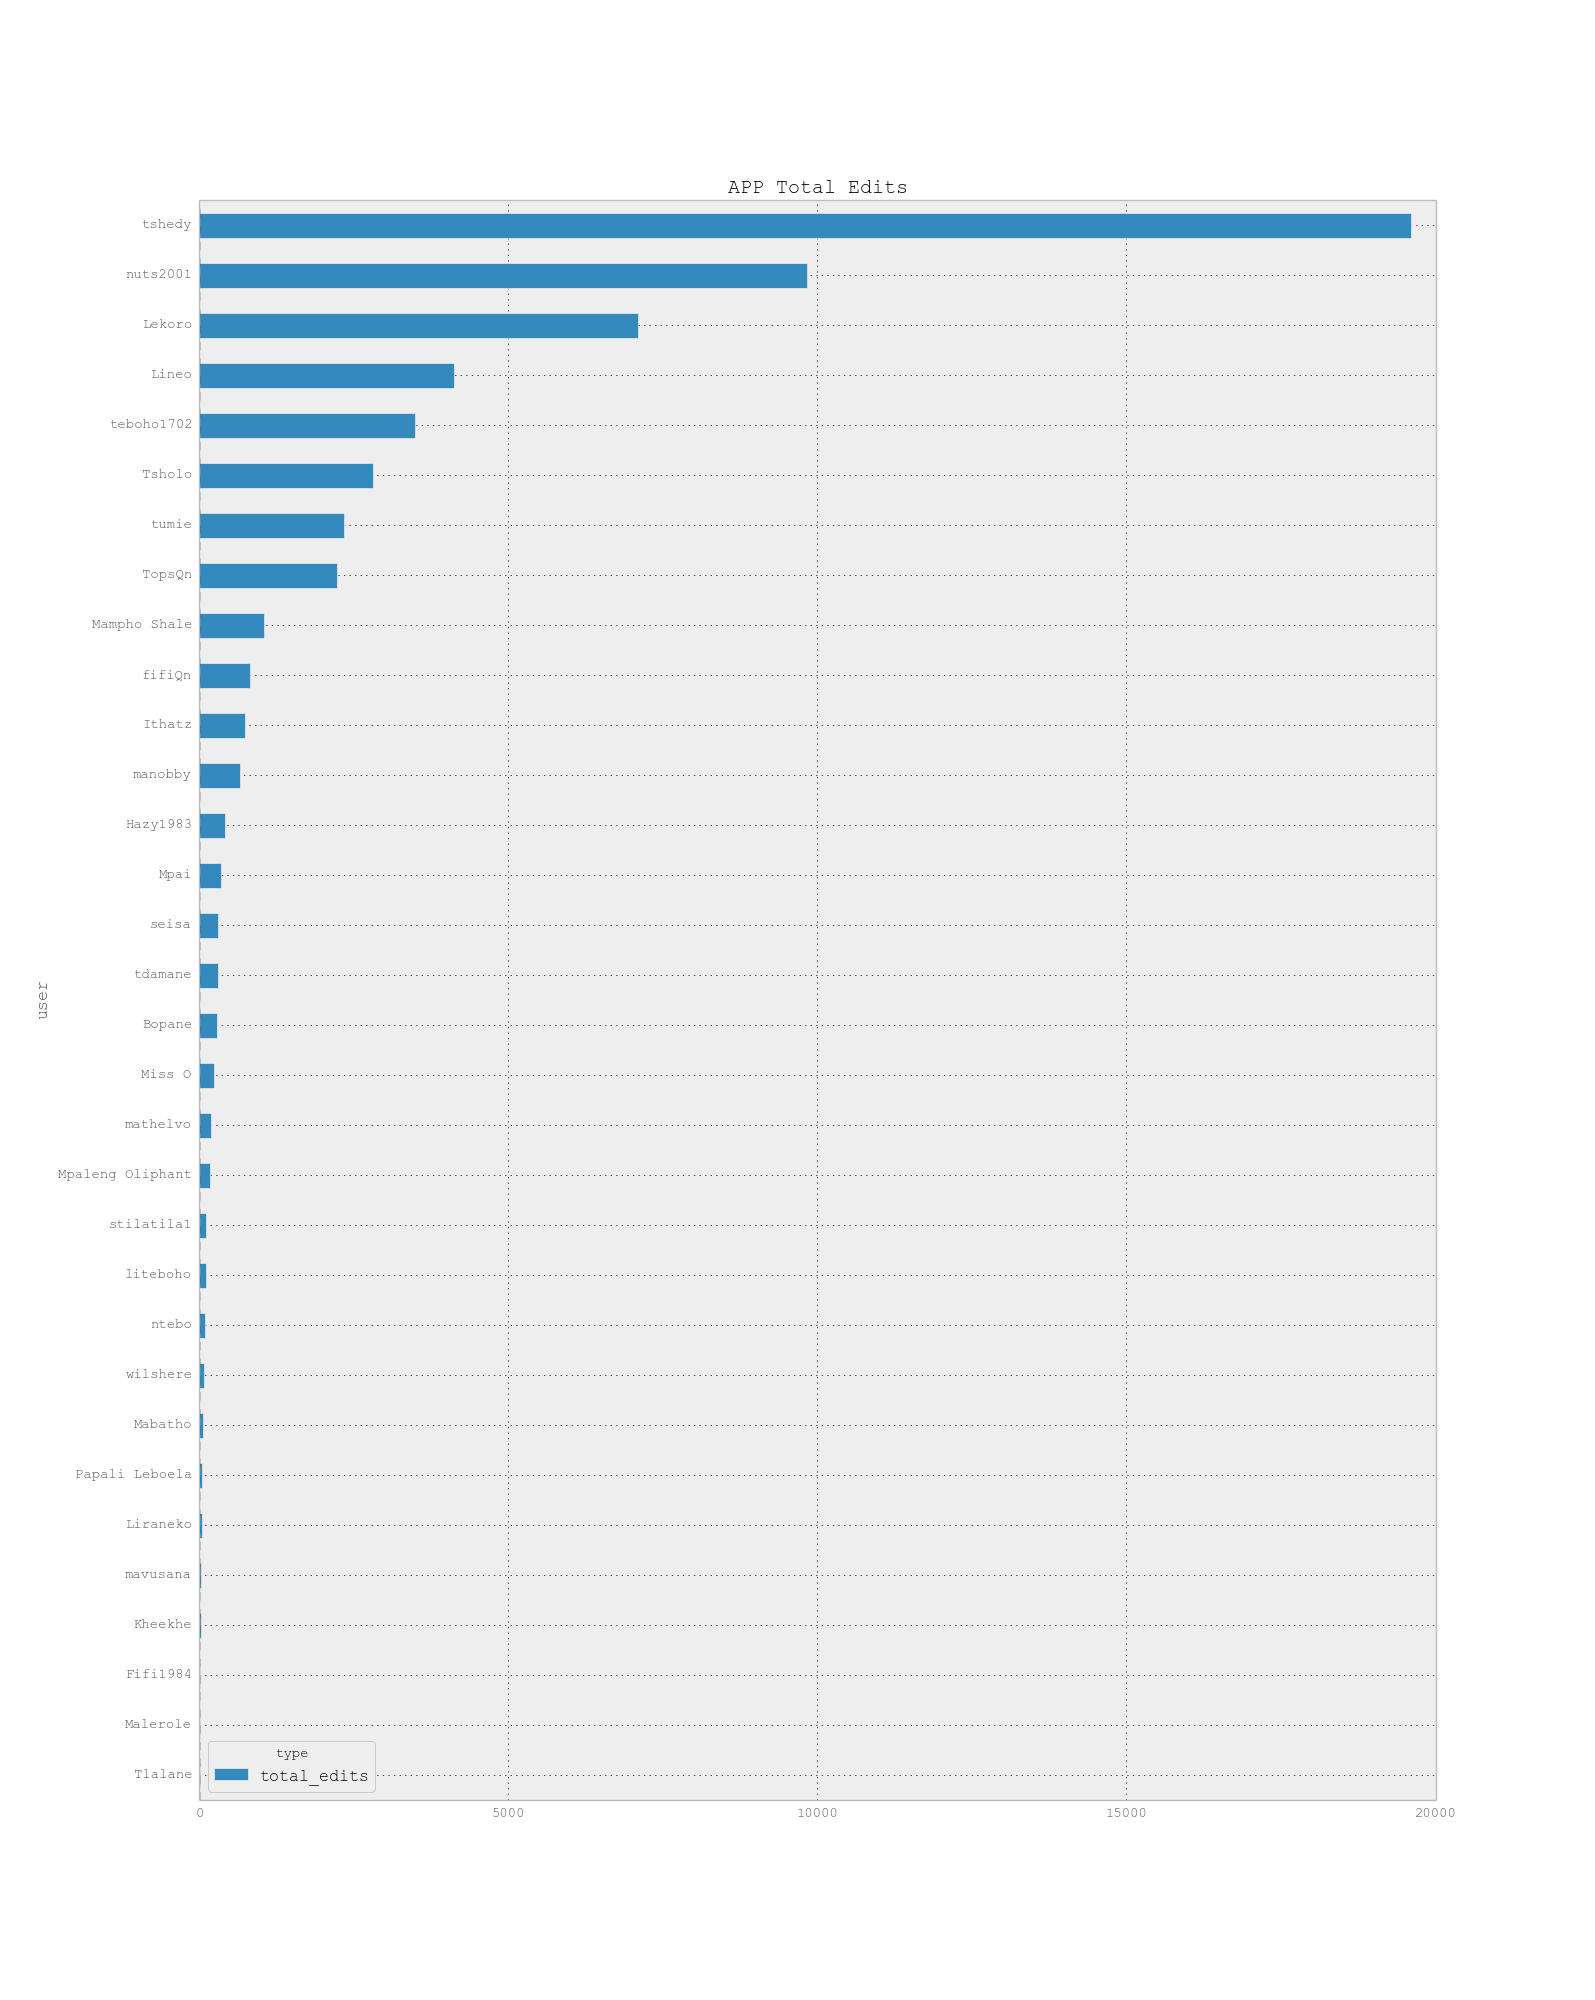
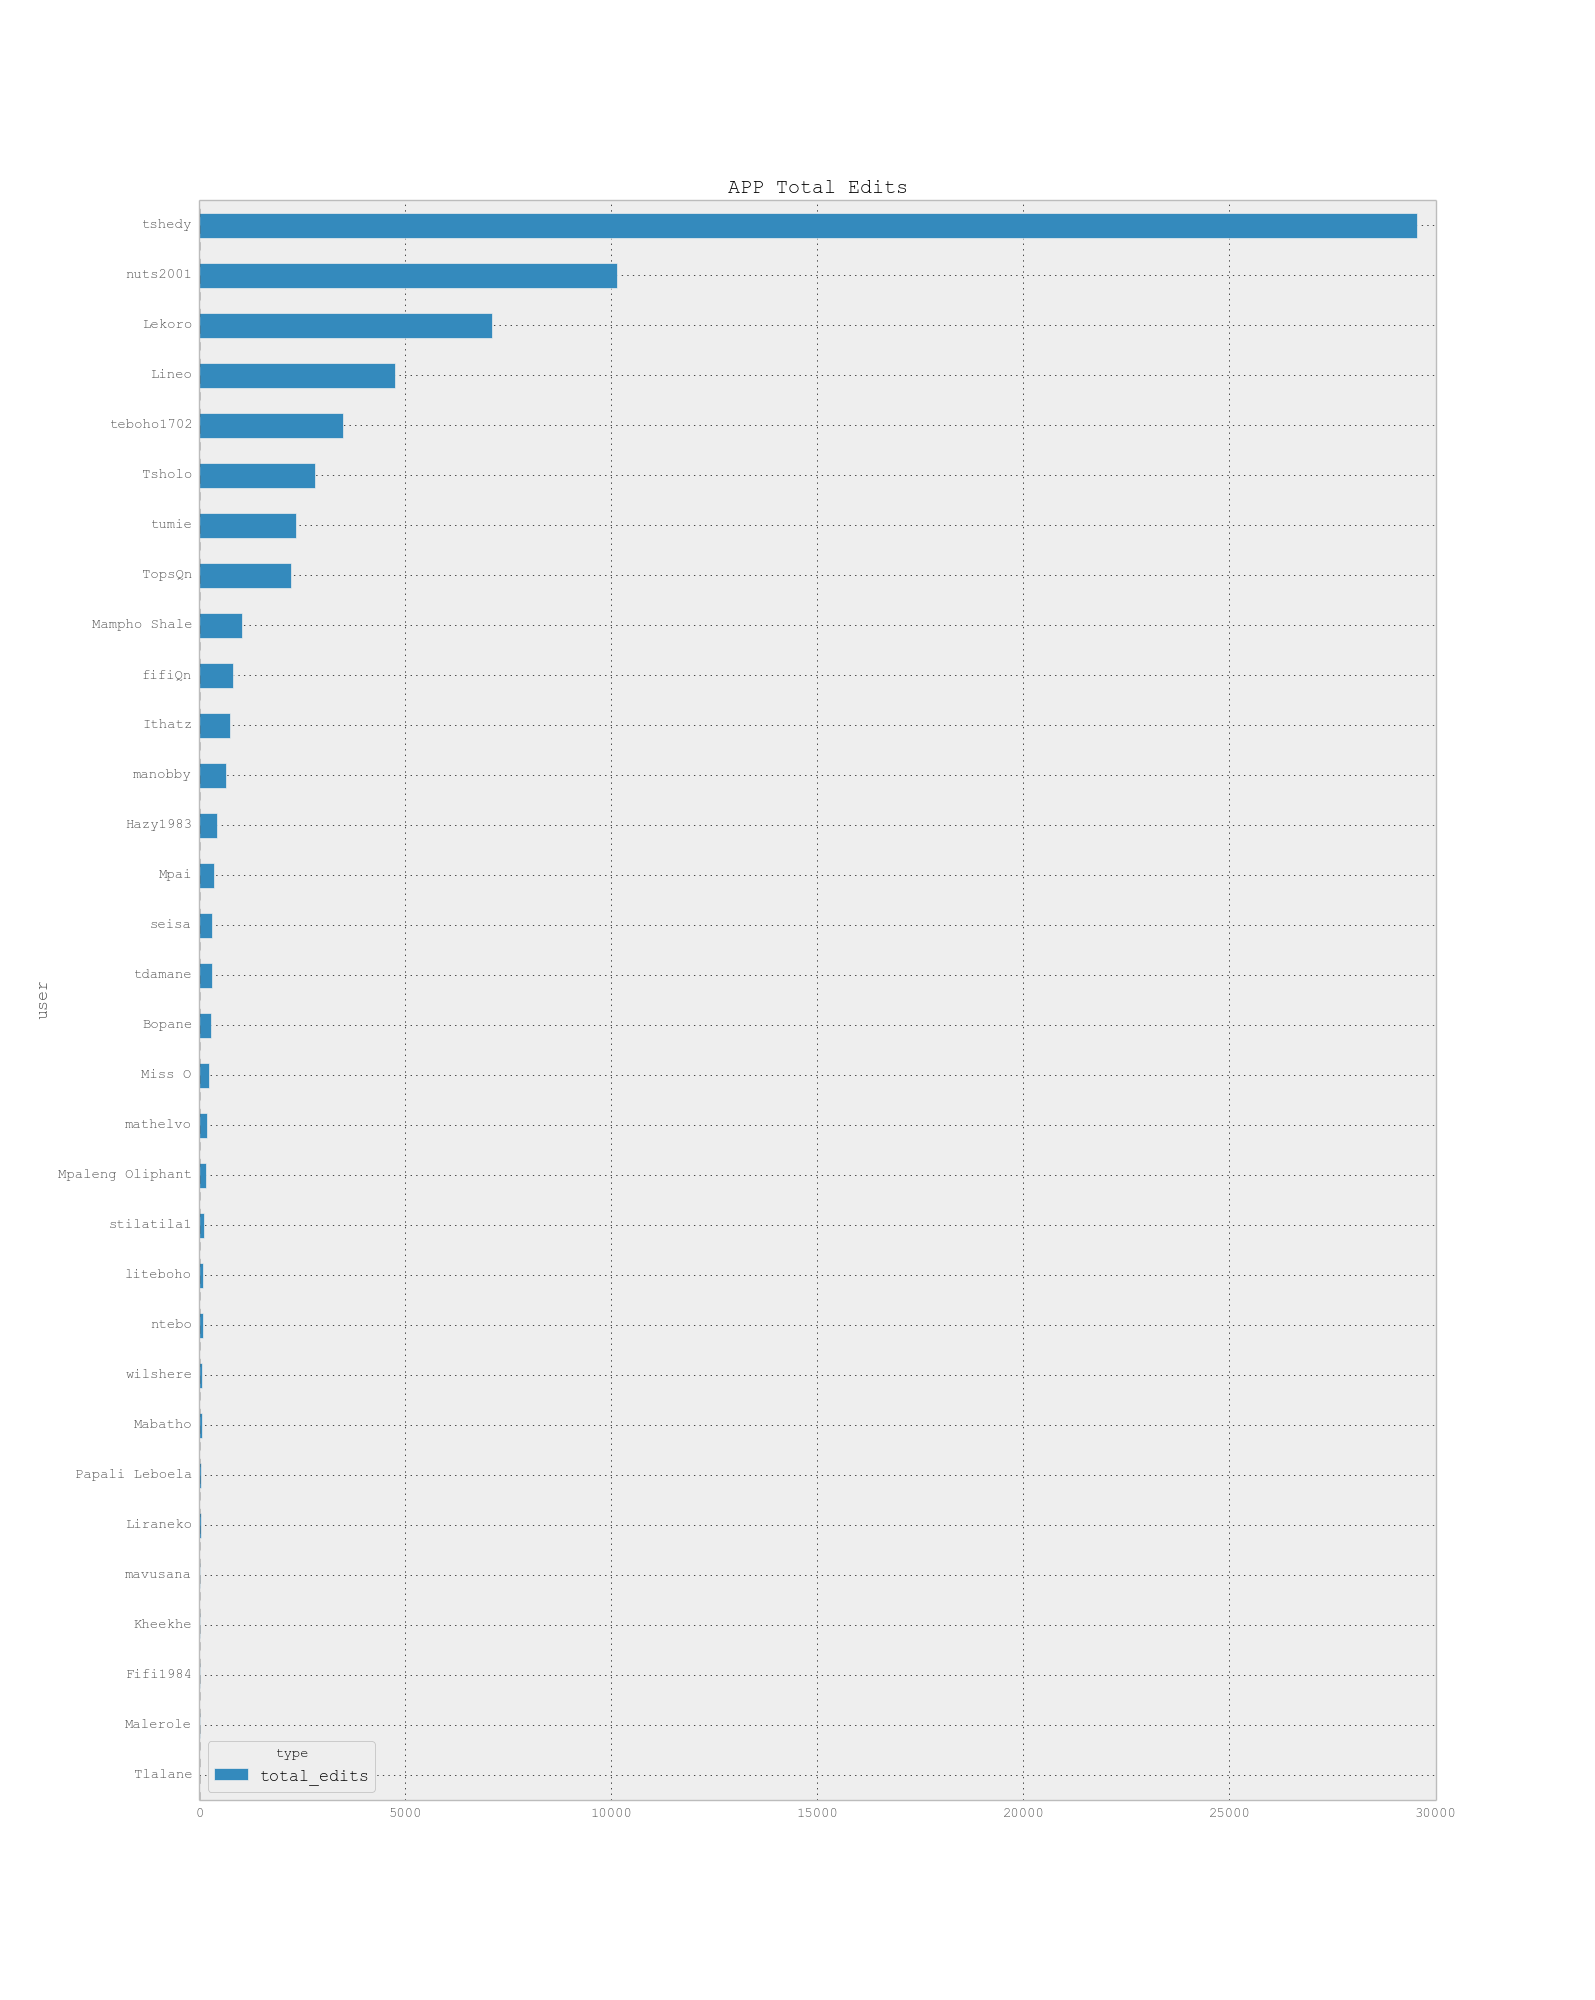
updated stats to 01JUL2015

diff --git a/get_monthly_stats.py b/get_monthly_stats.py
@@ -6,6 +6,8 @@ import pandas as pd
 import numpy as np
 import matplotlib.pyplot as plt
 
+pd.options.display.mpl_style = 'default' # set styles to nice colours for graphs
+
 # read files in data folder for existing files:
 def read_files(place="lesotho"):
 	wd0 = 'data/'
@@ -46,28 +48,28 @@ if len(les_apps) > 0:
 	# get monthly count of unique changesets
 	mon_un = les_apps.groupby(['user']).resample('M', how='nunique')[['changeset']] 
 	mon_un.columns = ['unique_changesets']
-	
+
 	# get montly count of all changeset
 	mon_co = les_apps.groupby(['user']).resample('M', how='count')[['changeset']] 
 	mon_co.columns = ['total_edits']
-	
+
 	# combine unqiue and total edits
 	app_mon_total = mon_un.join(mon_co).unstack()
-	
+
 	# output to csv
 	app_mon_total.to_csv("montly_app_tracking.csv")
 	
 	app_yun = les_apps.groupby(['user']).resample('AS', how='nunique')[['changeset']].reset_index().set_index('user')
 	app_count = les_apps.groupby(['user']).resample('AS', how='count')[['changeset']].reset_index().set_index('user')
-	
+
 	app_edits = les_apps[['user', 'type']].groupby(['user','type']).size()
 	ap_us = app_edits.unstack().fillna(0)
 	ap_us['total_edits'] = ap_us['create'] + ap_us['modify'] + ap_us['delete']
-	
+
 	ap_us[['total_edits']].sort('total_edits').plot(kind='barh', stacked=True, title="APP Total Edits", figsize=(20,20)).get_figure().savefig('app_total_edits.png')
 	ap_us.sort('total_edits')[['create', 'modify', 'delete']].plot(kind='barh', stacked=True, title="APP Edits by Type", figsize=(20,20)).get_figure().savefig('app_edits_by_type.png')
 
-
+sys.exit()
 
 # get some stats for all the users contributing to map_lesotho
 yn = lesa.groupby(['user']).resample('AS', how='nunique')[['changeset']].reset_index().set_index('user')
